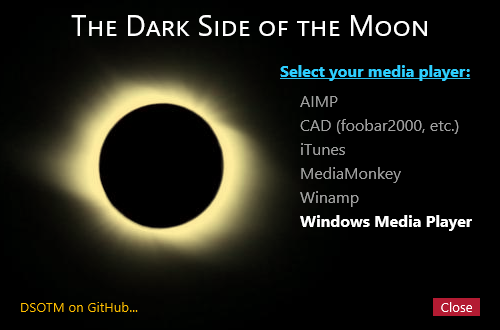
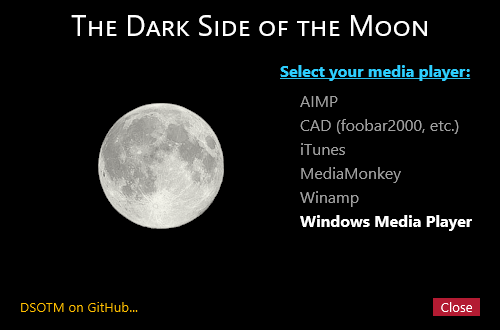
Updated README.md

Changed region(s): [[0.03, 0.1818, 0.57, 0.8182]]

diff --git a/README.md b/README.md
@@ -6,7 +6,7 @@ One of the greatest progressive rock albums of all time is Pink Floyd's _The Dar
 
 Anyone who's heard of Pink Floyd, or _The Dark Side of the Moon_ (aka, _DTSOM_), has certainly seen one of the most iconic album covers ever made: completely black, with no title or name of the band, just a prism refracting a beam of white light. Inside the gatefold cover, along with the song lyrics, the refracted light beam continues across -- with the signature "heartbeat" -- and wraps around to the back cover. The back contains another prism, concentrating the prismatic rays back into a white ray of light which wraps around to the front, to start the cycle over again.
 
-Back in 2018, I decided to celebrate the 45th anniversary of the album by creating a visualizer in the style of the album cover, using nothing but Shape meters and math. Ha! I never completed the task due to the complexity involved, but I finally completed it over a long weekend. While not _quite_ as cool as the real thing, this visualizer comes as close as I can get without a gatefolding double-sided monitor.
+Back in 2018, I decided to celebrate the 45th anniversary of the album by creating a visualizer in the style of the album cover, using nothing but Shape meters and math. Ha! I never completed the task due to the complexity involved, but I finally completed it over a long weekend in 2020. While not _quite_ as cool as the real thing, this visualizer comes as close as I can get without a gatefolding double-sided monitor.
 
 [![Click here to download](https://img.shields.io/github/v/release/SilverAzide/Dark-Side-of-the-Moon?logo=github&label=Click%20here%20to%20download&color=blueviolet&style=for-the-badge)](https://github.com/SilverAzide/Dark-Side-of-the-Moon/releases/download/v1.0.0/Dark-Side-of-the-Moon_1.0.0.rmskin)
 
@@ -22,9 +22,10 @@ Also, this skin is a visualizer **only**. It cannot and will not control your me
 ![](Images/Settings.png)
 
 There are only a few simple settings for the visualizer.
-* Click the moon/eclipse to toggle the visualizer on/off.
+* Click the moon to toggle the visualizer on/off.
 * Select your preferred media player from the list (these are players supported natively by Rainmeter).
-* Queue up album (preferably the remastered 5.1 mix), turn out the lights, and crank the volume! (Also playing the _Wizard of Oz_ is optional.)
+* Queue up the album (preferably the remastered 5.1 mix), turn out the lights, and crank the volume! (Also playing the _Wizard of Oz_ is optional.)
+* Keep your eyes peeled for easter eggs... :wink:
 
 For best appearance, and to show the world how much of a die-hard Floyd fan you are, set your desktop wallpaper to solid black, like the album cover. Lesser fans can opt for a near-black desktop, though you may invite mild derision for your lack of dedication.
 
